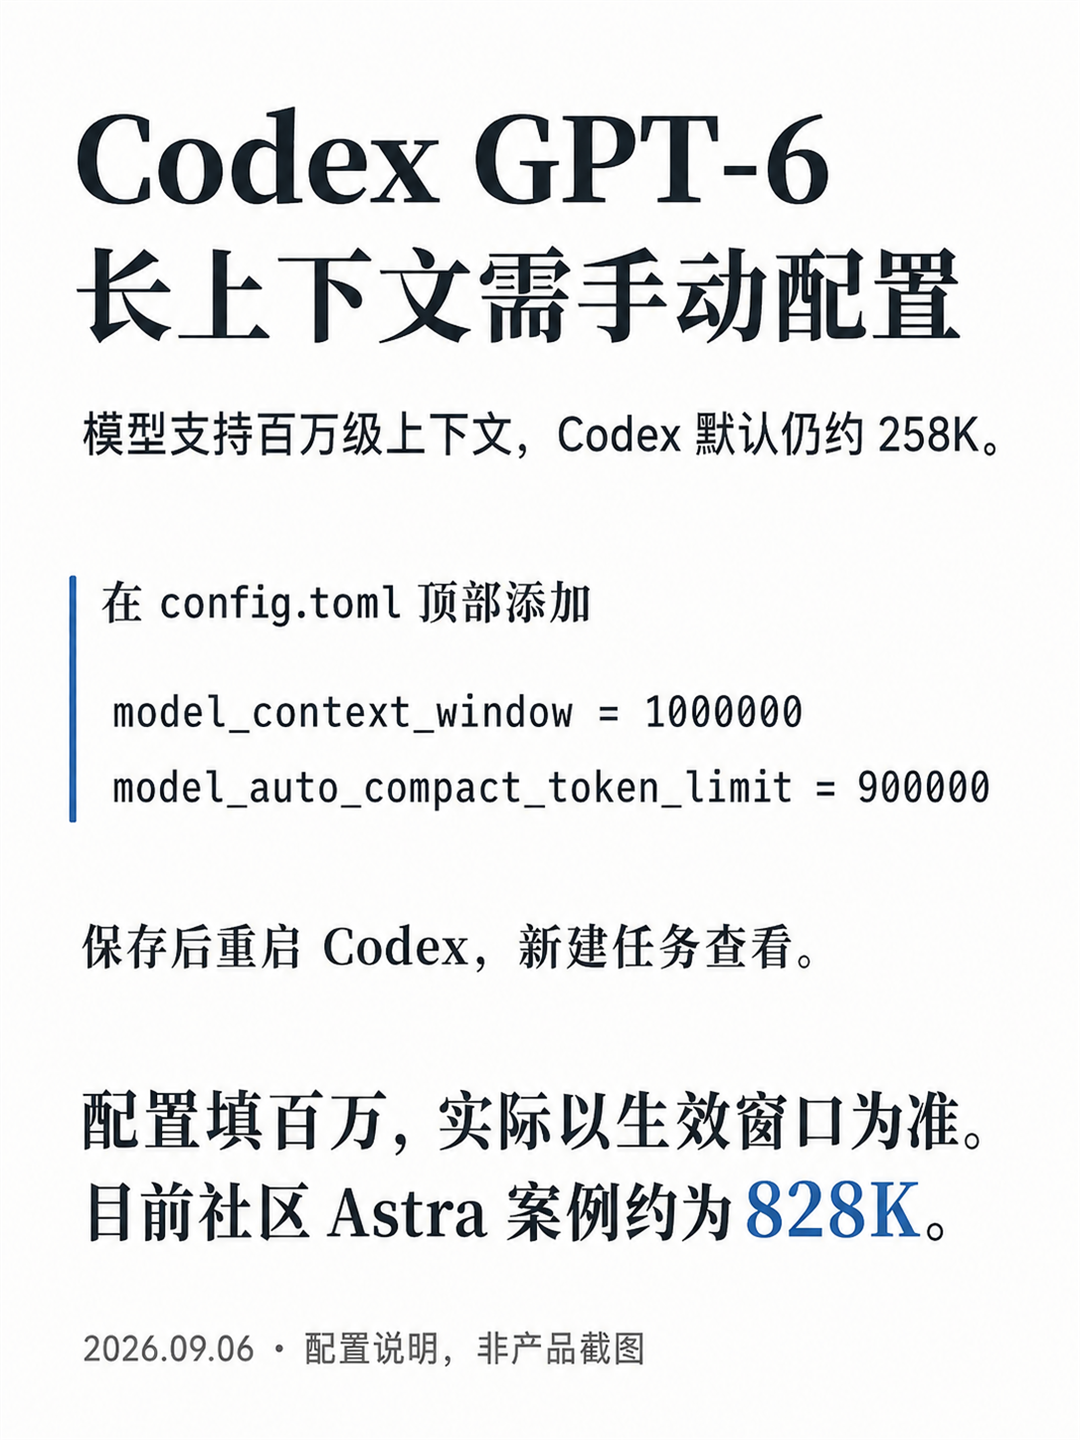
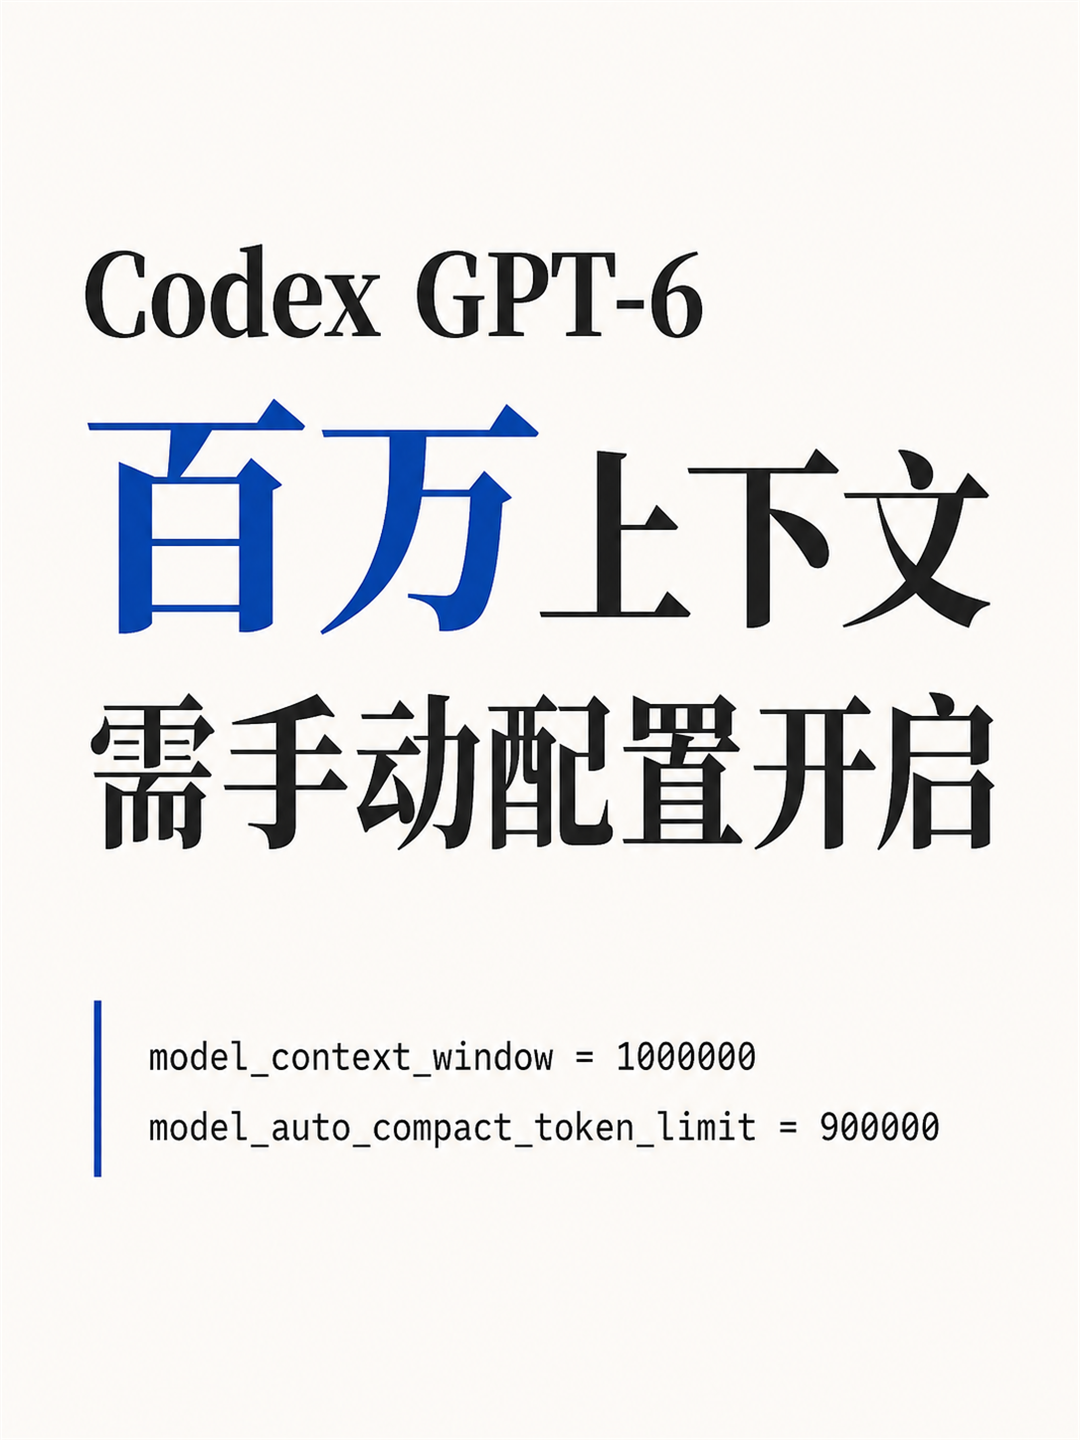
精简长上下文图文图片，突出百万与手动配置

diff --git a/topics/20260906-codex-gpt6-long-context/image-post/source/quality-check.md b/topics/20260906-codex-gpt6-long-context/image-post/source/quality-check.md
@@ -11,3 +11,14 @@
 - 配文提供可复制代码、系统路径和同名配置处理方式。
 - 图片是生成的说明图，不是产品截图或实测证据；没有账号与凭证信息。
 - images只保留最终发布图。未创建平台草稿，未公开发布。
+
+## 第二版复核（当前交付）
+
+- 用户否定第一版信息过多；整图重新生成，不沿用原版构图。
+- 结构备选：A 上方三行大标题、下方代码；B 左侧竖向标题、右下代码。采用A，符合用户明确的上下两部分要求。
+- 标题占主要空间，蓝色“百万”为第一视觉中心；“手动”位于清晰的第三行。
+- 图片只有三个标题行与两行配置，去掉所有日期、脚注、258K、828K、重启步骤与非截图说明。
+- 已核对原图两行ASCII配置键名、等号及数字，准确且未换行。
+- 已查看270×360缩略图，“百万上下文”与“需手动配置开启”清楚。
+- 标题与社区窗口口径的解释保留在配文和research，不在图片重复。
+- 原图保留为02-original.png；第一版成图归档为01-config-v1-rejected.png。

diff --git a/topics/20260906-codex-gpt6-long-context/topic.md b/topics/20260906-codex-gpt6-long-context/topic.md
@@ -6,9 +6,13 @@
 - 结论：模型支持百万级；当前Codex可手动配置扩大，社区Astra案例实际约828K。
 - 风险：模型规格、配置请求值和实际生效值必须分开；社区案例不得写成作者实测。
 - 图片：1张，1080×1440；顺序为 image-post/images/01-config.png。
-- 标题：Codex GPT-6长上下文怎么开
+- 标题：Codex百万上下文，需手动开启
 - 版本：通用图文，无额外平台版本。
 
 | 渠道 | 状态 | 发布时间 | 使用版本 | 链接 |
 |---|---|---|---|---|
 | 小红书 | 已准备，未发布 | — | `image-post/post.md` + `image-post/images/01-config.png` | — |
+
+## 第二版图片
+
+按用户要求整图重做：上方大字保留Codex GPT-6、百万上下文、需手动配置开启；下方仅两行配置。258K、828K、重启步骤只在配文说明。删除图片日期、脚注和非产品截图说明。旧成图移入source，最终images仅一张。

diff --git a/topics/20260906-codex-gpt6-long-context/image-post/post.md b/topics/20260906-codex-gpt6-long-context/image-post/post.md
@@ -1,4 +1,4 @@
-# Codex GPT-6长上下文怎么开
+# Codex百万上下文，需手动开启
 
 GPT-6 Astra 支持百万级上下文，但 Codex 默认窗口目前仍约 258K，需要手动配置扩大。方法放在图里了。
 
